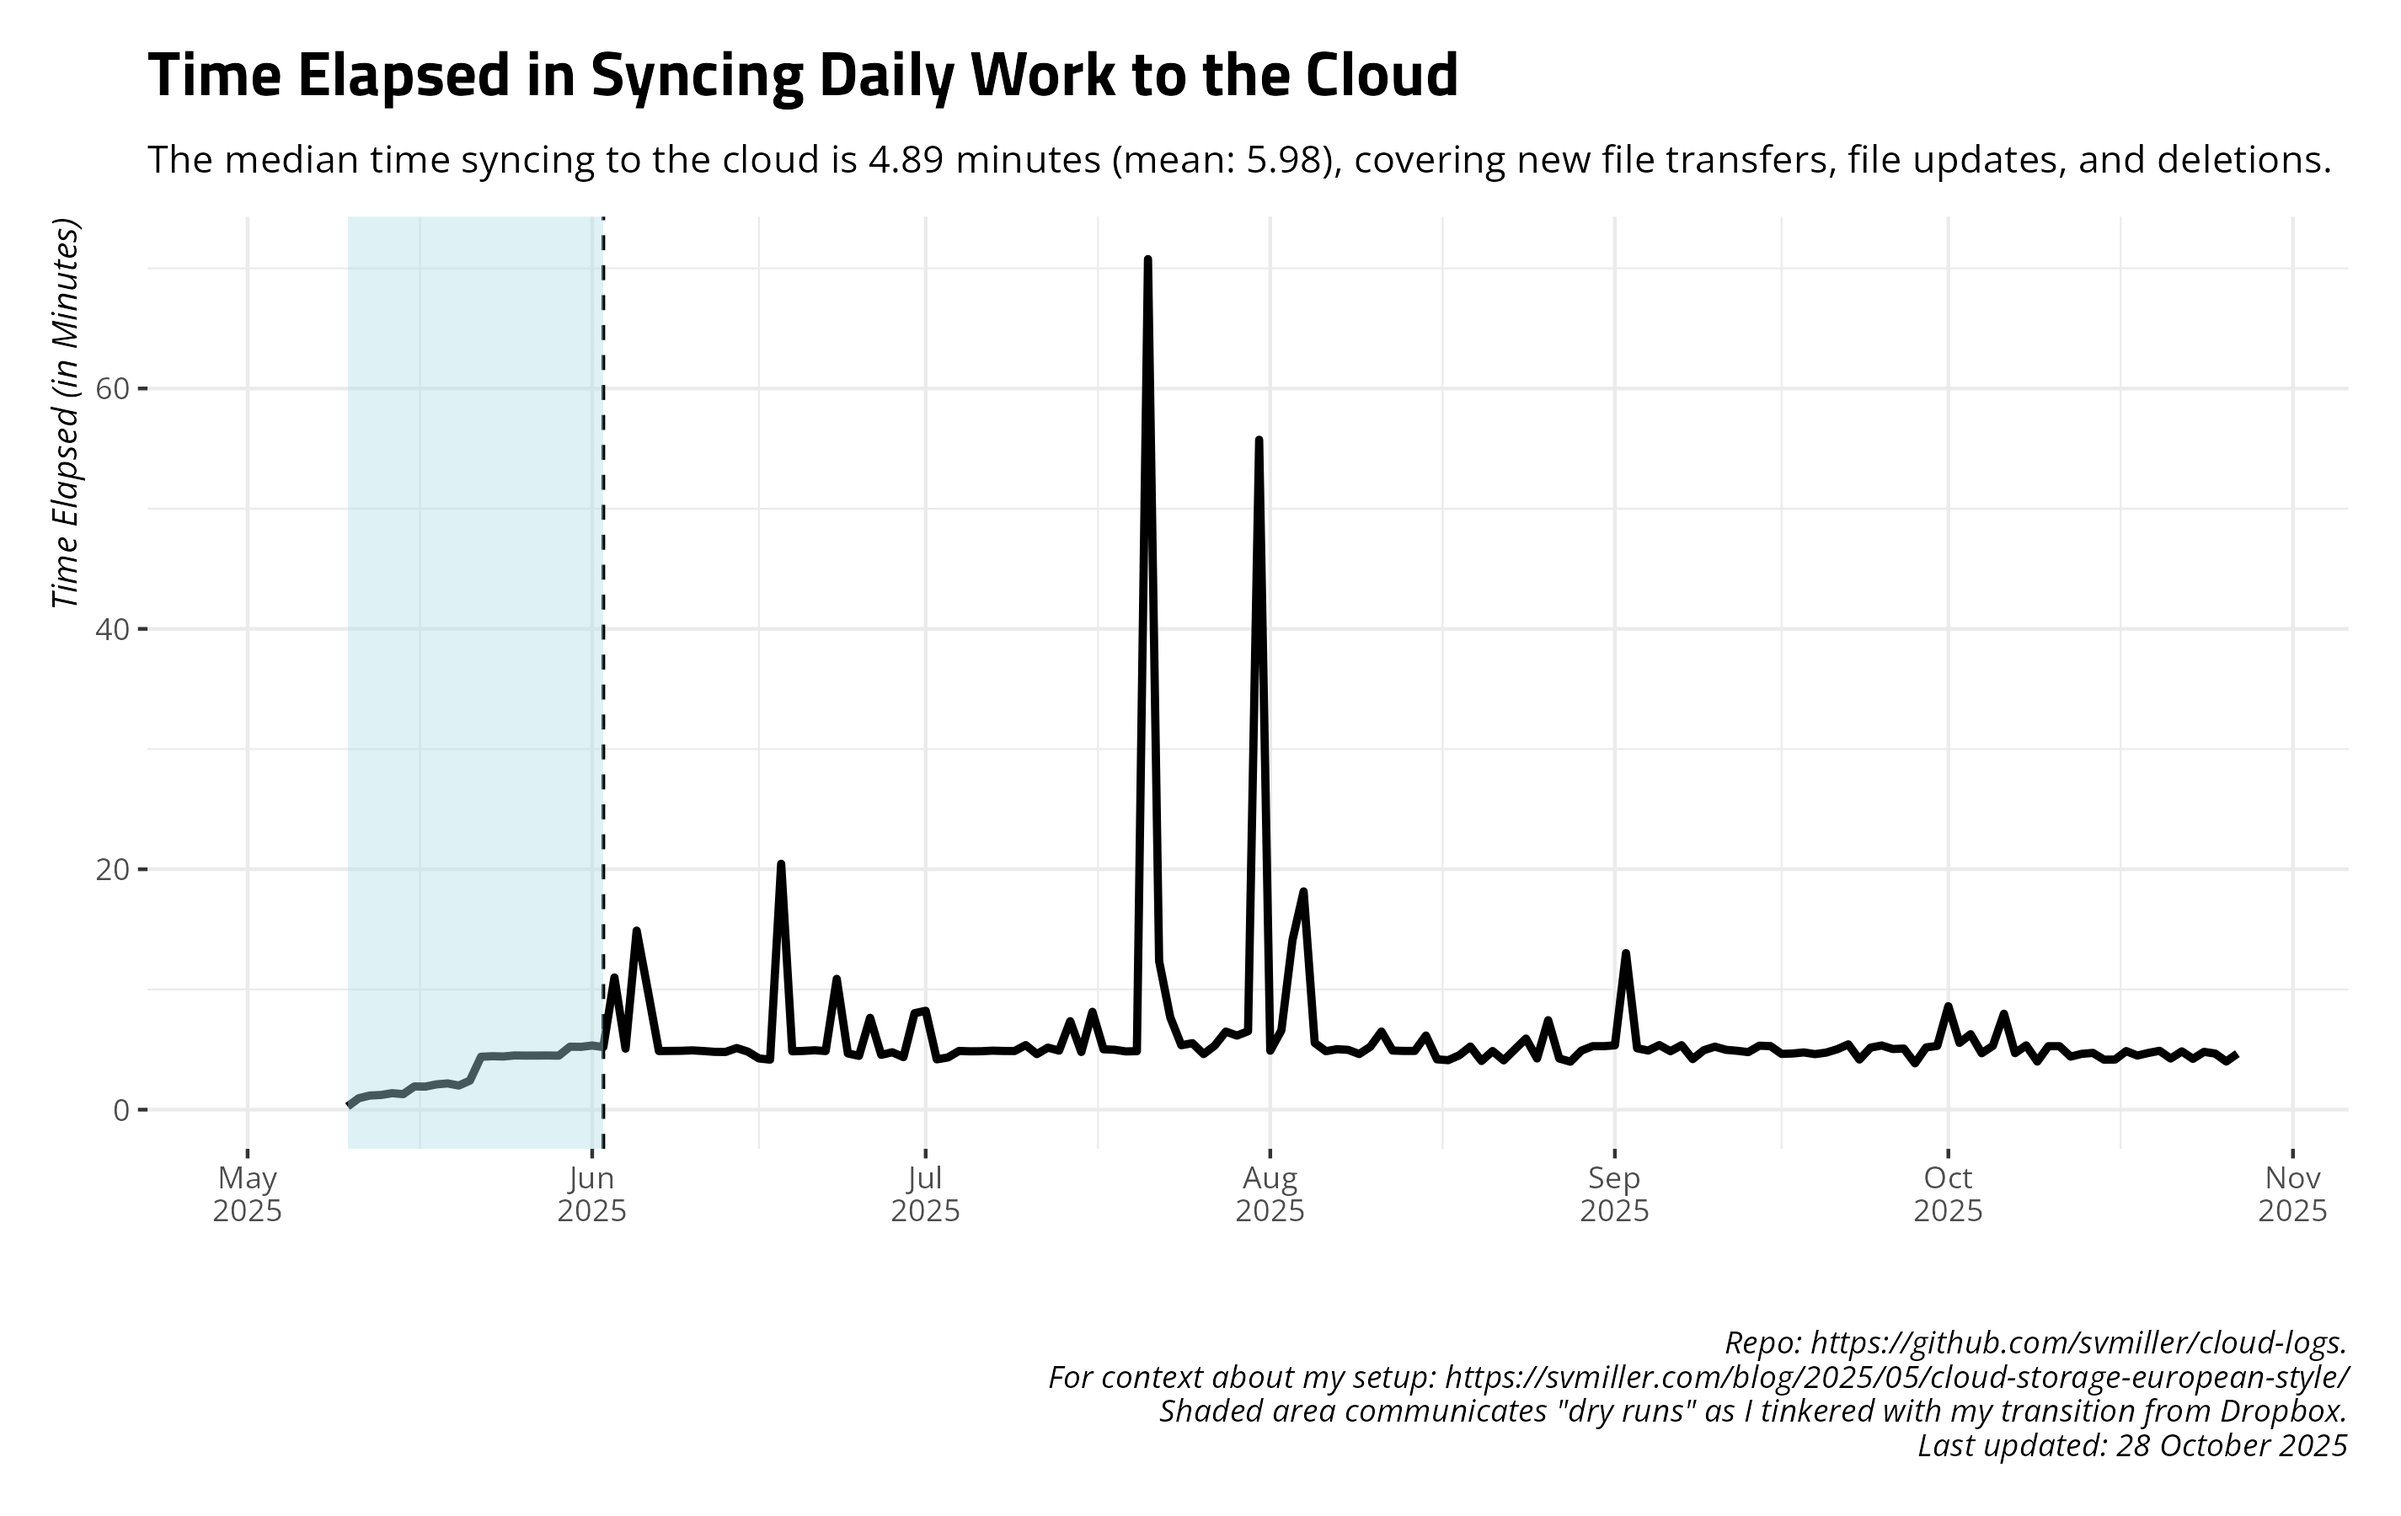
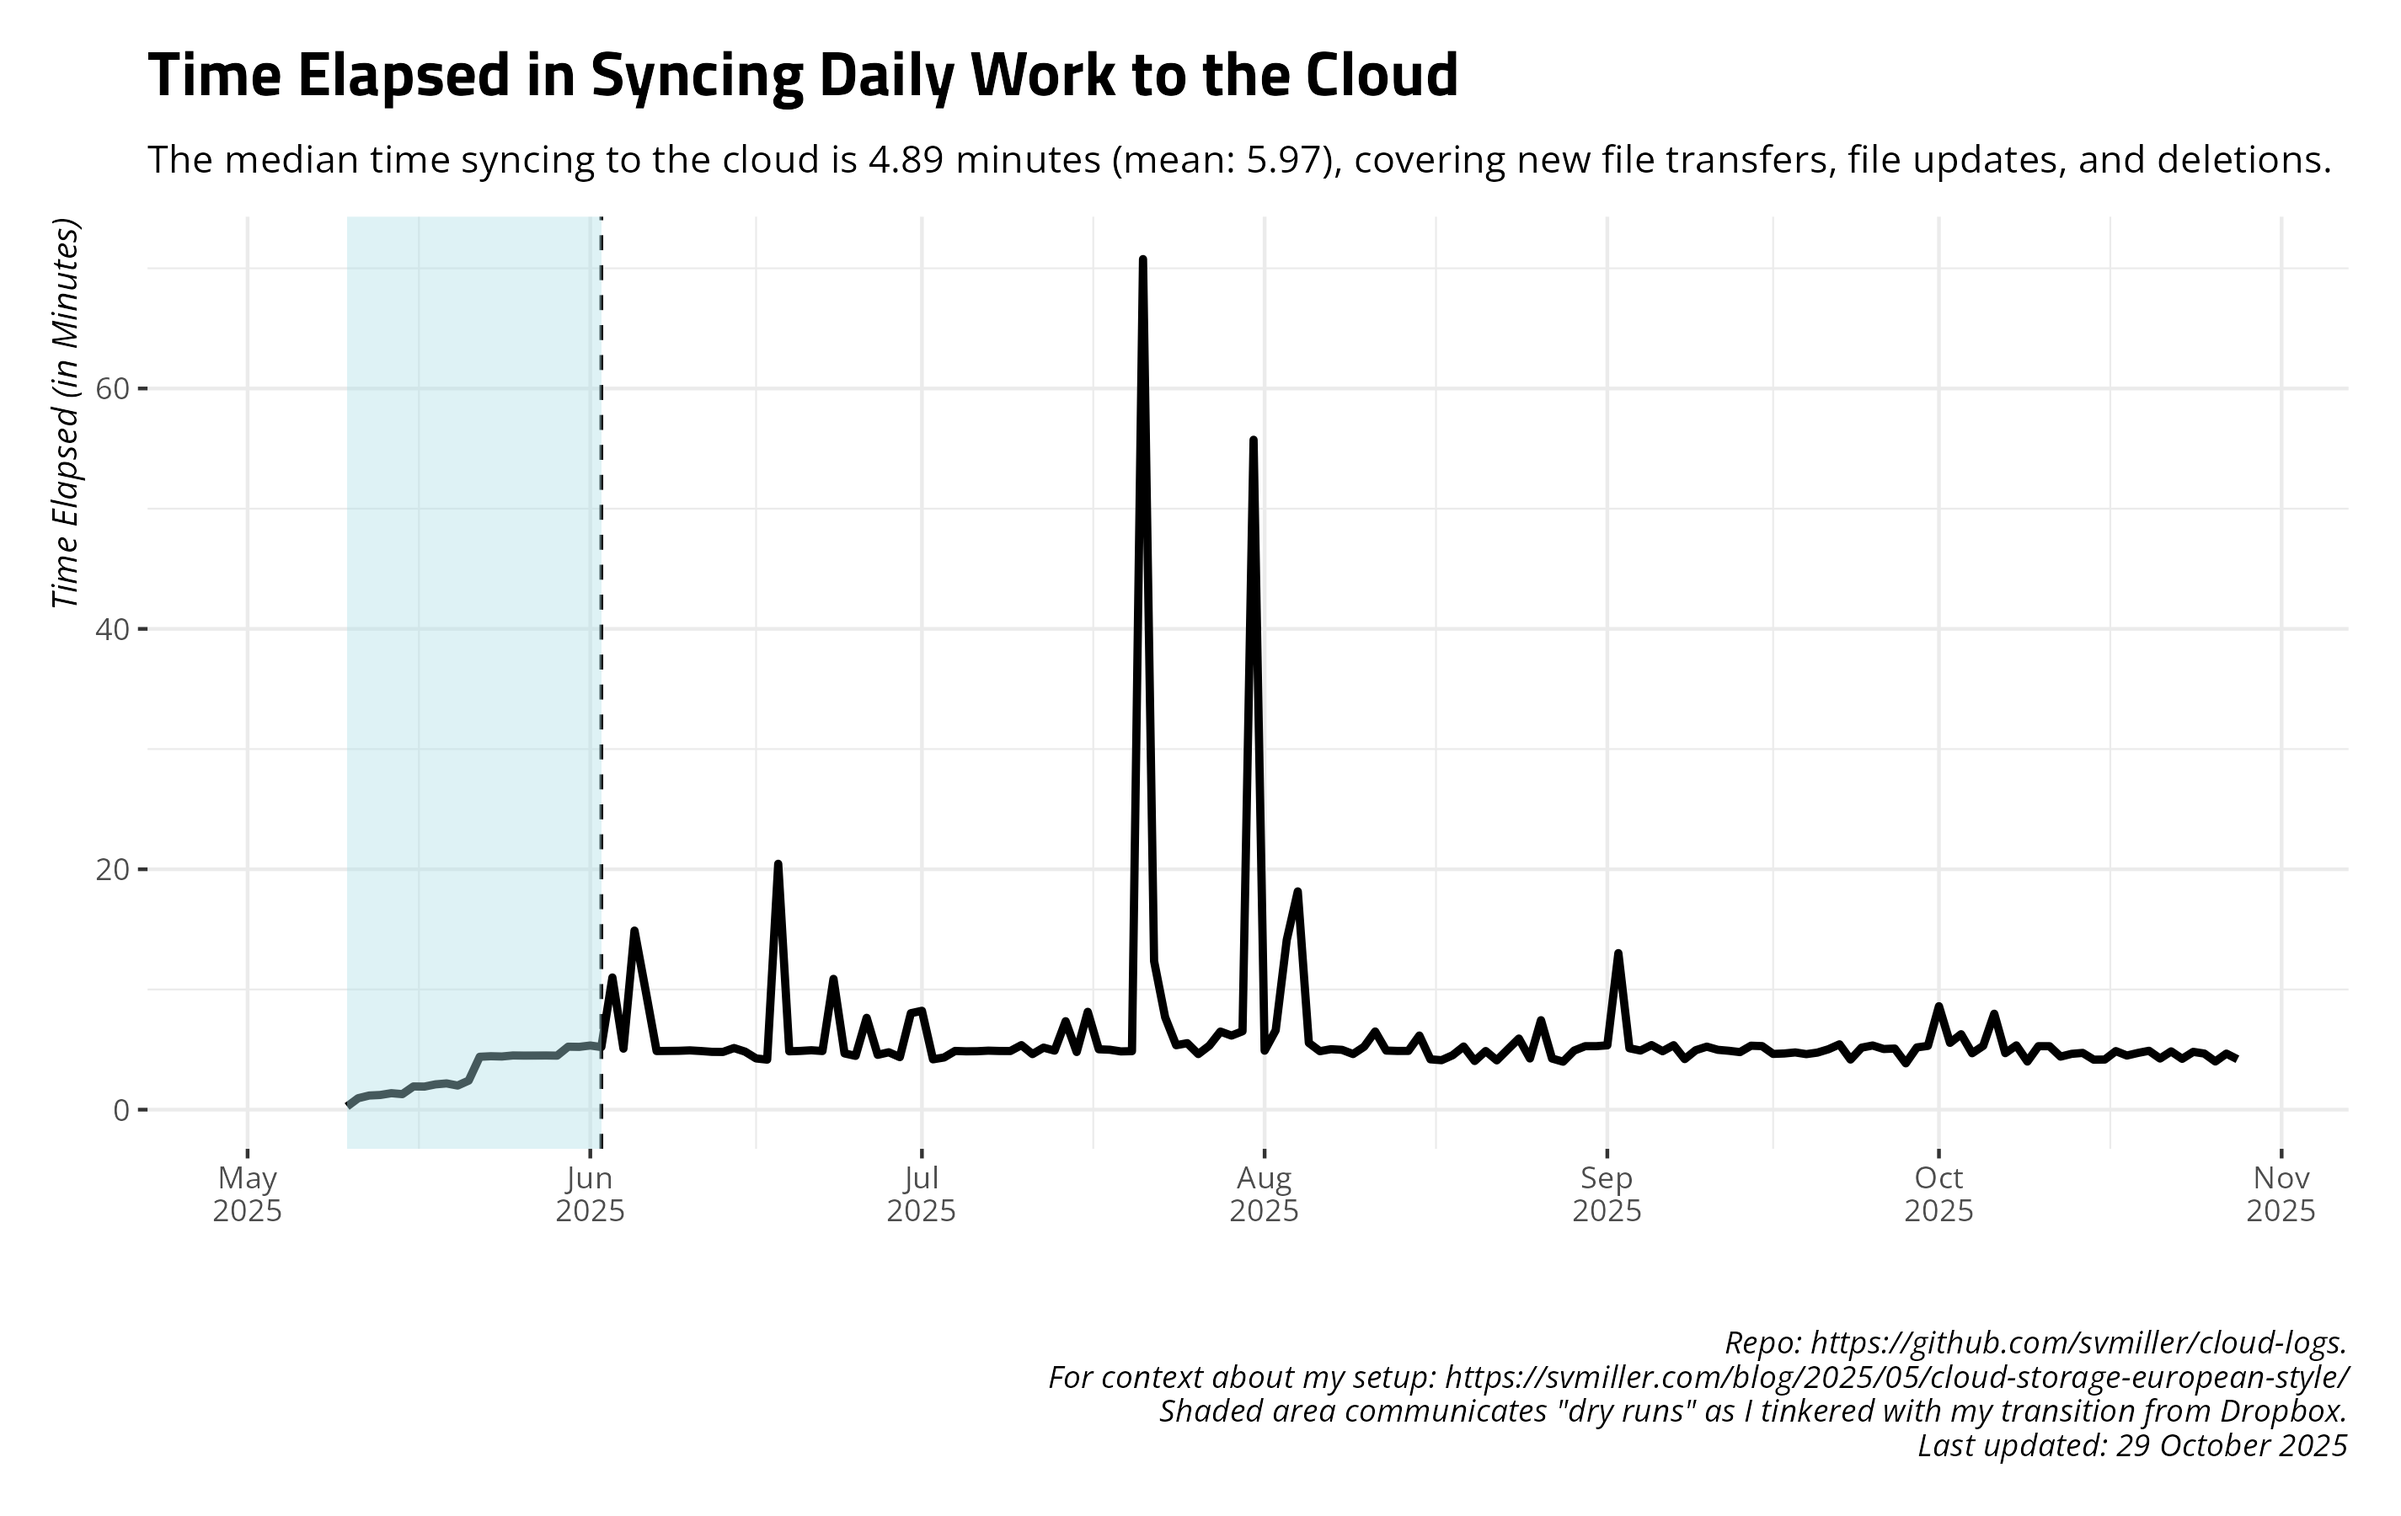
Date: 2025-10-29 09:00:16. Hi mom!

diff --git a/README.md b/README.md
@@ -27,17 +27,17 @@ and uploads to Github.
     #> # A tibble: 14 × 4
     #>    date       ftransfer stransfer   elapsed
     #>    <date>         <dbl> <chr>       <chr>  
-    #>  1 2025-10-14       157 6.146 MiB   4m43.3s
-    #>  2 2025-10-15       126 2.207 MiB   4m9.6s 
-    #>  3 2025-10-16        73 3.849 MiB   4m10.2s
-    #>  4 2025-10-17       113 3.125 MiB   4m52.3s
-    #>  5 2025-10-18        48 633.468 KiB 4m30.2s
-    #>  6 2025-10-19        22 67.056 KiB  4m43.2s
-    #>  7 2025-10-20        37 397.260 KiB 4m53.9s
-    #>  8 2025-10-21       332 55.643 MiB  4m15.2s
-    #>  9 2025-10-22        13 1.903 MiB   4m51.0s
-    #> 10 2025-10-23        68 2.442 MiB   4m13.7s
-    #> 11 2025-10-24        49 714.508 KiB 4m48.5s
-    #> 12 2025-10-25        95 6.259 MiB   4m40.1s
-    #> 13 2025-10-26        42 393.283 KiB 4m0.4s 
-    #> 14 2025-10-27        24 143.556 KiB 4m39.8s
+    #>  1 2025-10-15       126 2.207 MiB   4m9.6s 
+    #>  2 2025-10-16        73 3.849 MiB   4m10.2s
+    #>  3 2025-10-17       113 3.125 MiB   4m52.3s
+    #>  4 2025-10-18        48 633.468 KiB 4m30.2s
+    #>  5 2025-10-19        22 67.056 KiB  4m43.2s
+    #>  6 2025-10-20        37 397.260 KiB 4m53.9s
+    #>  7 2025-10-21       332 55.643 MiB  4m15.2s
+    #>  8 2025-10-22        13 1.903 MiB   4m51.0s
+    #>  9 2025-10-23        68 2.442 MiB   4m13.7s
+    #> 10 2025-10-24        49 714.508 KiB 4m48.5s
+    #> 11 2025-10-25        95 6.259 MiB   4m40.1s
+    #> 12 2025-10-26        42 393.283 KiB 4m0.4s 
+    #> 13 2025-10-27        24 143.556 KiB 4m39.8s
+    #> 14 2025-10-28       251 13.888 MiB  4m11.7s
